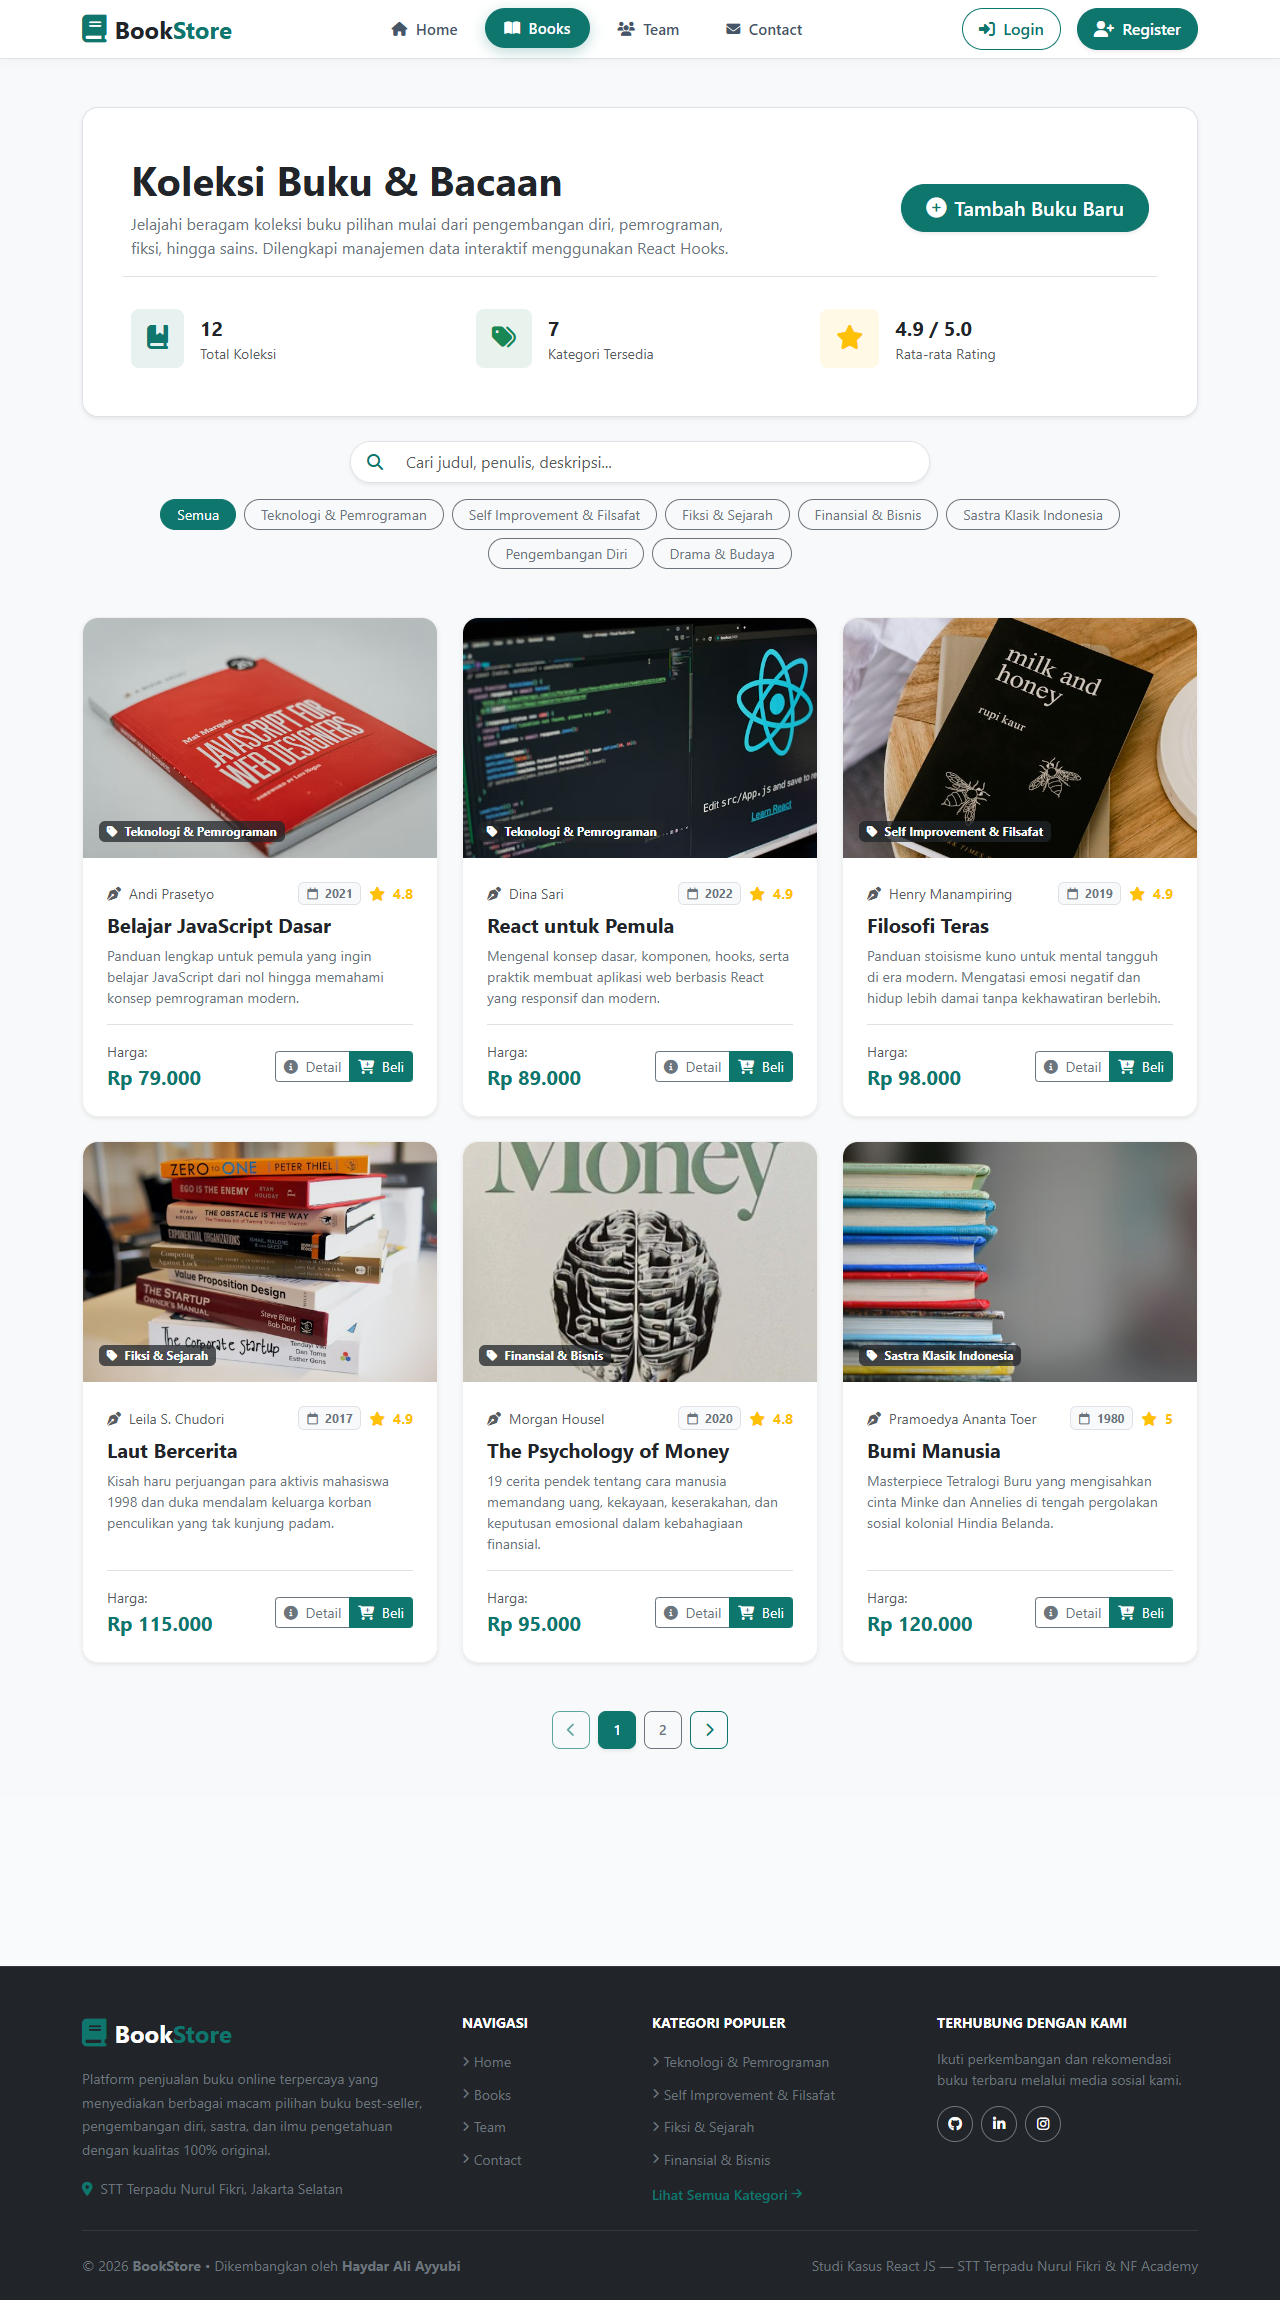
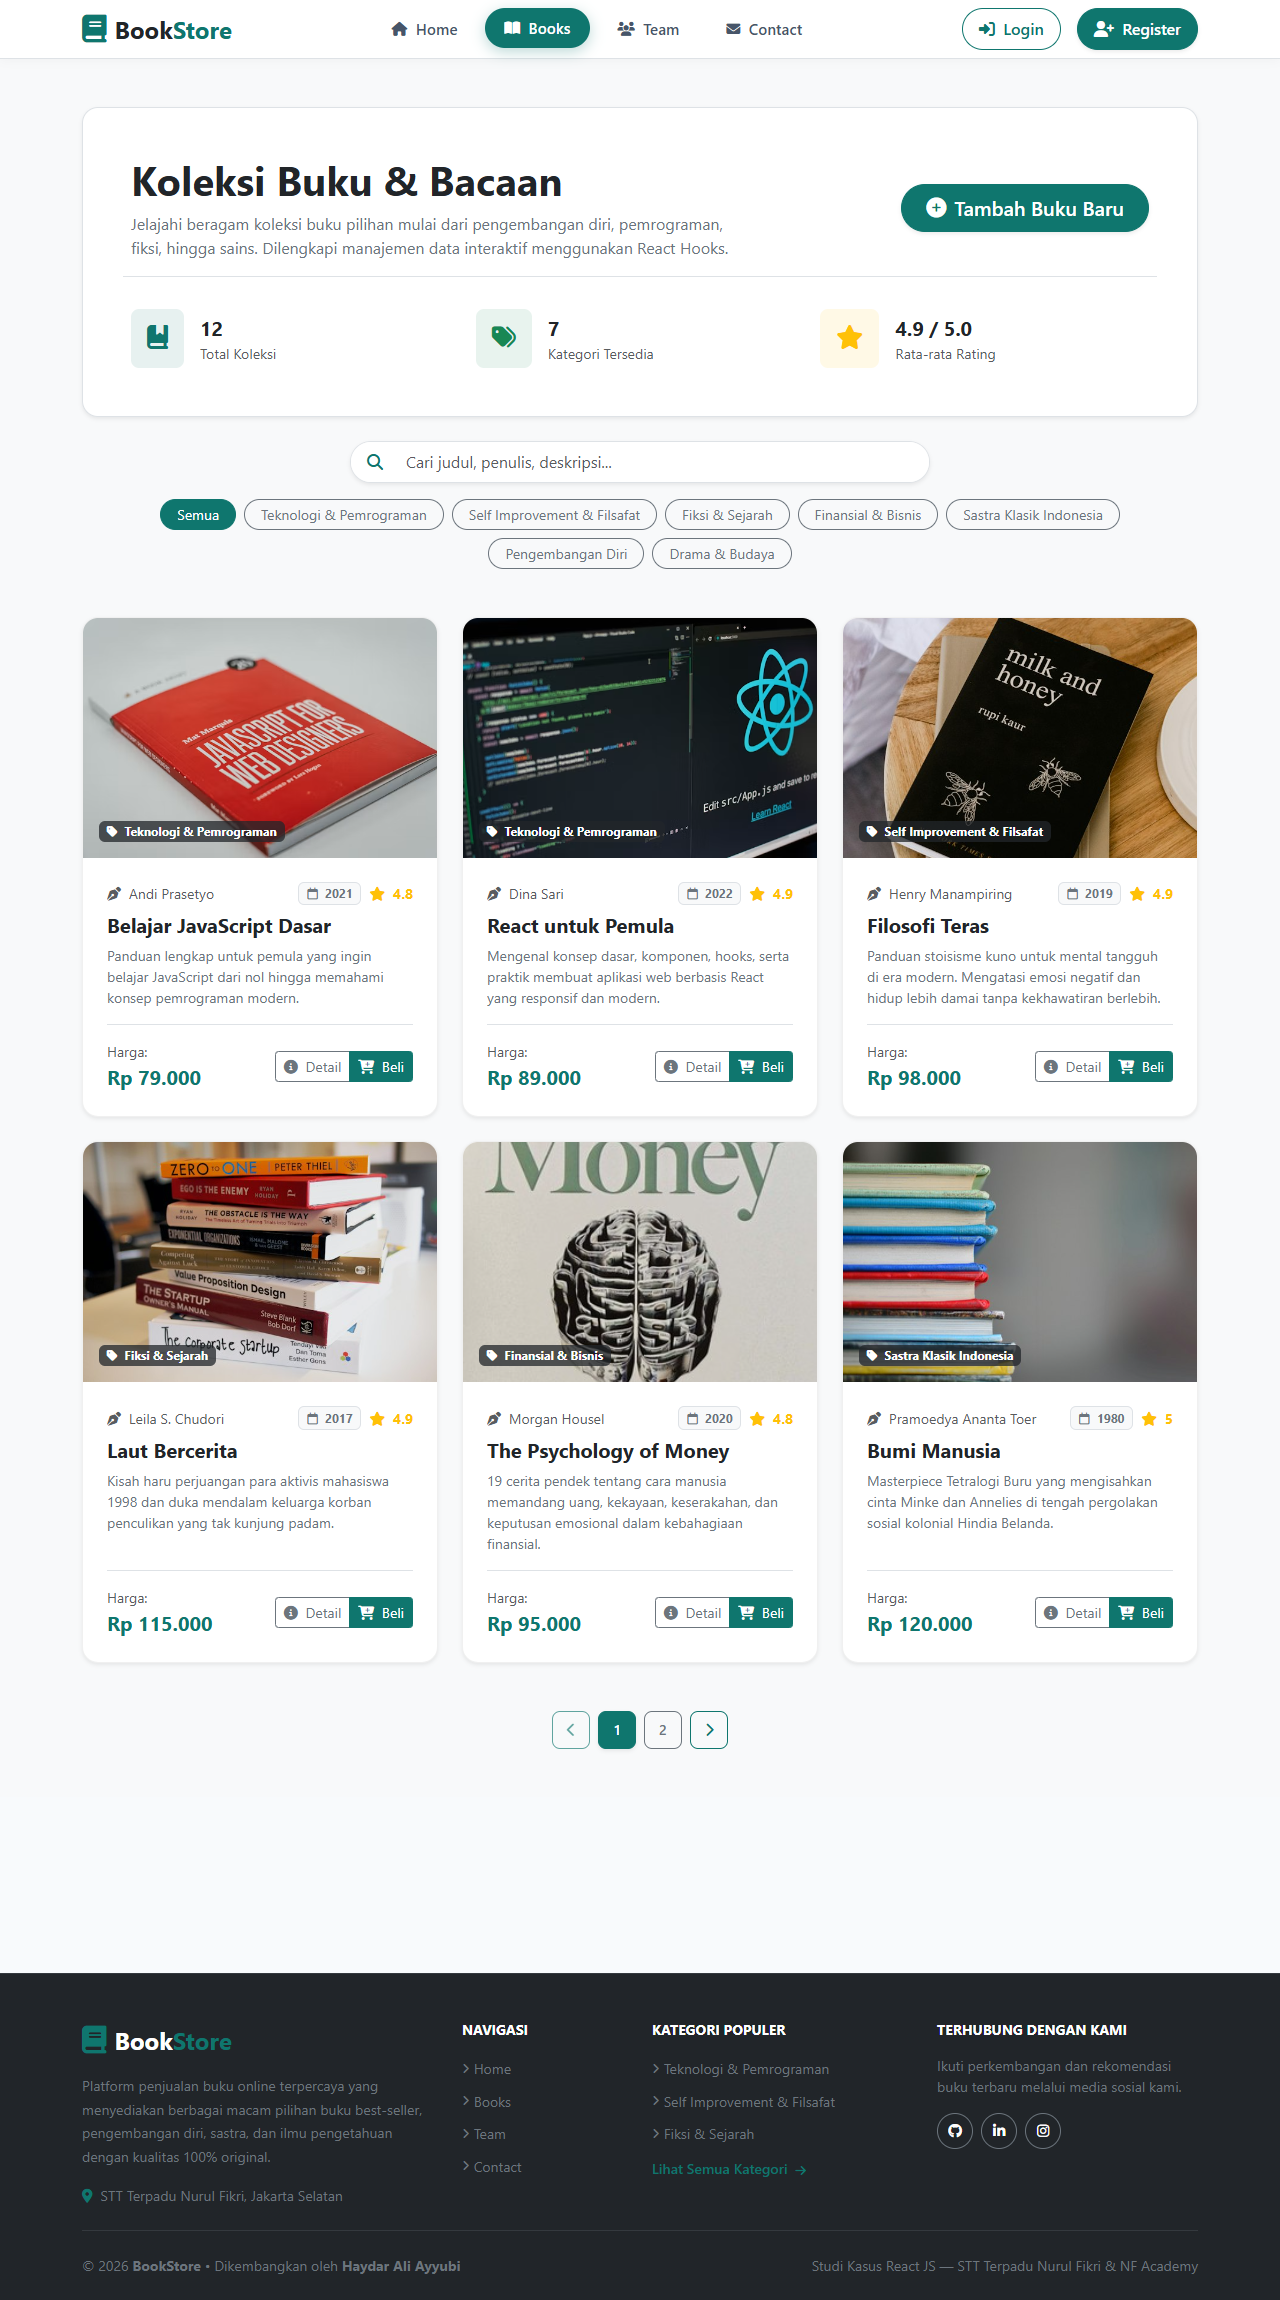
update screenshots terbaru, dan perapihan kode

diff --git a/src/components/Footer.jsx b/src/components/Footer.jsx
@@ -1,11 +1,6 @@
 import React from 'react';
 import { Link } from 'react-router';
 
-/**
- * Footer - Komponen Footer Aplikasi BookStore
- * Menggunakan Link dari React Router untuk navigasi cepat antar rute
- * serta menyajikan informasi toko dan identitas pengembang.
- */
 function Footer() {
   return (
     <footer className="bg-dark text-white pt-5 pb-4 mt-auto border-top border-secondary border-opacity-25">
@@ -106,7 +101,10 @@ function Footer() {
                   className="text-primary text-decoration-none small fw-semibold d-inline-flex align-items-center gap-2 footer-cta-link"
                 >
                   <span>Lihat Semua Kategori</span>
-                  <i className="fa-solid fa-arrow-right" style={{ fontSize: '0.75rem' }}></i>
+                  <i
+                    className="fa-solid fa-arrow-right"
+                    style={{ fontSize: '0.75rem', transform: 'translateY(2px)', display: 'inline-block' }}
+                  ></i>
                 </Link>
               </li>
             </ul>

diff --git a/src/layouts/MainLayout.jsx b/src/layouts/MainLayout.jsx
@@ -4,11 +4,6 @@ import Navbar from '../components/Navbar';
 import Footer from '../components/Footer';
 import ScrollToTop from '../components/ScrollToTop';
 
-/**
- * MainLayout - Kategori Elemen Layout (Layout Route)
- * Membungkus seluruh halaman utama aplikasi dengan Navbar dan Footer konsisten,
- * serta merender komponen halaman anak melalui <Outlet />.
- */
 function MainLayout() {
   return (
     <div className="d-flex flex-column min-vh-100 app-wrapper">

diff --git a/src/pages/Home.jsx b/src/pages/Home.jsx
@@ -2,10 +2,6 @@ import React from 'react';
 import Hero from '../components/Hero';
 import ProductList from '../components/ProductList';
 
-/**
- * Home - Kategori Elemen Halaman (Page Element)
- * Menampilkan Hero Section (buku unggulan Atomic Habits) dan Katalog Produk Lengkap.
- */
 function Home() {
   const scrollToProducts = () => {
     const el = document.getElementById('product-list');

diff --git a/src/components/Navbar.jsx b/src/components/Navbar.jsx
@@ -1,11 +1,6 @@
 import React, { useState } from 'react';
 import { Link, NavLink } from 'react-router';
 
-/**
- * Navbar - Komponen Navigasi Utama Aplikasi BookStore
- * Menggunakan NavLink dari React Router dengan styling aktif interaktif
- * serta menu responsif untuk perangkat mobile.
- */
 function Navbar() {
   const [isOpen, setIsOpen] = useState(false);
 

diff --git a/src/Utils/books.js b/src/Utils/books.js
@@ -1,9 +1,3 @@
-/**
- * books.js - Sumber Data Buku Utama (Utils)
- * Berisi kumpulan data buku (minimal 9 data) sesuai instruksi tugas.
- * Struktur data memenuhi properti wajib: id, title, author, year, description, image,
- * serta dilengkapi atribut pendukung untuk kompatibilitas tampilan katalog.
- */
 const books = [
   {
     id: 1,

diff --git a/src/components/ScrollToTop.jsx b/src/components/ScrollToTop.jsx
@@ -1,10 +1,6 @@
 import { useEffect } from 'react';
 import { useLocation } from 'react-router';
 
-/**
- * Utilitas router untuk mereset posisi scroll ke bagian atas layar
- * setiap kali pengguna berpindah rute URL, atau scroll ke ID jika terdapat hash.
- */
 function ScrollToTop() {
   const { pathname, hash } = useLocation();
 

diff --git a/src/pages/NotFound.jsx b/src/pages/NotFound.jsx
@@ -1,10 +1,6 @@
 import React from 'react';
 import { Link } from 'react-router';
 
-/**
- * NotFound - Kategori Elemen Halaman (Page Element)
- * Ditampilkan saat URL yang diakses pengguna tidak cocok dengan rute mana pun (*).
- */
 function NotFound() {
   return (
     <div className="py-5 my-auto text-center">

diff --git a/src/pages/Contact.jsx b/src/pages/Contact.jsx
@@ -1,10 +1,6 @@
 import React from 'react';
 import Contact from '../components/Contact';
 
-/**
- * ContactPage - Kategori Elemen Halaman (Page Element)
- * Menampilkan informasi kontak toko dan formulir pesan interaktif.
- */
 function ContactPage() {
   return (
     <div className="page-contact">

diff --git a/src/pages/Team.jsx b/src/pages/Team.jsx
@@ -1,10 +1,6 @@
 import React from 'react';
 import Team from '../components/Team';
 
-/**
- * TeamPage - Kategori Elemen Halaman (Page Element)
- * Menampilkan profil lengkap tim pengembang dan kurator buku BookStore.
- */
 function TeamPage() {
   return (
     <div className="page-team">
